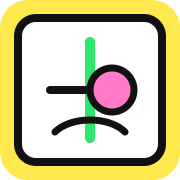
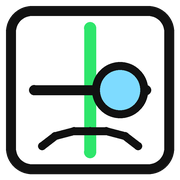
h

diff --git a/styles.css b/styles.css
@@ -7,7 +7,7 @@
   --coral: #ff5a4f;
   --amber: #ffb800;
   --green: #2ee66b;
-  --pink: #ff7ac8;
+  --pink: #7edbff;
   --blue: #5bb8ff;
   --grid: rgba(17, 17, 17, 0.08);
   --font:
@@ -25,7 +25,7 @@
   --coral: #ff3d81;
   --amber: #fff95b;
   --green: #00ff9d;
-  --pink: #ff4dff;
+  --pink: #7ee8ff;
   --blue: #00d9ff;
   --grid: rgba(0, 217, 255, 0.16);
   --shadow: 0 0 0 3px #f7f7ff, 0 0 22px rgba(255, 77, 255, 0.85);
@@ -40,7 +40,7 @@
   --coral: #ff4f4f;
   --amber: #ffd23f;
   --green: #39ff14;
-  --pink: #ff66c4;
+  --pink: #74d7ff;
   --blue: #5aa9ff;
   --grid: rgba(18, 18, 18, 0.12);
   --font: ui-monospace, "SFMono-Regular", Menlo, Monaco, Consolas, monospace;
@@ -129,7 +129,7 @@ h2 {
   min-height: 34px;
   border: 3px solid var(--ink);
   border-radius: 6px;
-  background: var(--green);
+  background: var(--panel);
   color: var(--ink);
   box-shadow: var(--shadow-small);
   cursor: pointer;
@@ -153,11 +153,27 @@ h2 {
   place-items: center;
   width: 42px;
   min-height: 34px;
+  background: #d7d7d7;
   padding: 0;
 }
 
 .mic-button.is-listening {
+  background: var(--green);
+}
+
+.mic-button::after {
+  content: "";
+  position: absolute;
+  width: 31px;
+  height: 4px;
+  border: 2px solid var(--ink);
+  border-radius: 999px;
   background: var(--coral);
+  transform: rotate(-38deg);
+}
+
+.mic-button.is-listening::after {
+  display: none;
 }
 
 .mic-icon {

diff --git a/app.js b/app.js
@@ -758,10 +758,10 @@ function getCursorY(padding, graphHeight) {
 
 function formatCueCents(cents) {
   if (!Number.isFinite(cents) || Math.abs(cents) <= 1) {
-    return "0¢";
+    return "0";
   }
 
-  return `${cents > 0 ? "+" : ""}${Math.round(cents)}¢`;
+  return `${cents > 0 ? "+" : ""}${Math.round(cents)}`;
 }
 
 function getCanvasColors() {

diff --git a/sw.js b/sw.js
@@ -1,4 +1,4 @@
-const CACHE_NAME = "accordatore-v9";
+const CACHE_NAME = "accordatore-v12";
 const ASSETS = [
   "./",
   "./index.html",
